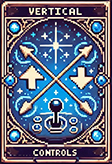
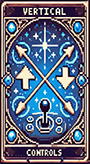
Selección de Cartas y ajuste

diff --git a/src/scenes/CardScene.js b/src/scenes/CardScene.js
@@ -9,20 +9,20 @@ export default class CardScene extends Phaser.Scene {
             stats: null,
             mapa: null
         }; // Guardar selección por tipo
-        this.shuffleEnabled = true; // Flag para activar/desactivar desorden
+        this.shuffleEnabled = false; // Flag para activar/desactivar desorden
     }
 
     preload() {
         this.load.image("cartaReverso", "assets/images/Cartas/CartaD1Esc.jpg"); // Imagen para cartas dadas vuelta
-        this.load.image("cartaControles1", "assets/images/Cartas/Horizonal.jpg");
-        this.load.image("cartaControles2", "assets/images/Cartas/cartaControles2.png");
-        this.load.image("cartaControles3", "assets/images/Cartas/cartaControles3.png");
-        this.load.image("cartaStats1", "assets/images/Cartas/cartaStats1.png");
-        this.load.image("cartaStats2", "assets/images/Cartas/cartaStats2.png");
-        this.load.image("cartaStats3", "assets/images/Cartas/cartaStats3.png");
-        this.load.image("cartaMapa1", "assets/images/Cartas/cartaMapa1.png");
-        this.load.image("cartaMapa2", "assets/images/Cartas/cartaMapa2.png");
-        this.load.image("cartaMapa3", "assets/images/Cartas/cartaMapa3.png");
+        this.load.image("cartaControles1", "assets/images/Cartas/HorizontalEsc.jpg");
+        this.load.image("cartaControles2", "assets/images/Cartas/VerticalEsc.jpg");
+        this.load.image("cartaControles3", "assets/images/Cartas/DeslizamientoEsc.jpg");
+        this.load.image("cartaStats1", "assets/images/Cartas/VelocidadEsc.jpg");
+        this.load.image("cartaStats2", "assets/images/Cartas/SaltoEsc.jpg");
+        this.load.image("cartaStats3", "assets/images/Cartas/VidaEsc.jpg");
+        this.load.image("cartaMapa1", "assets/images/Cartas/GravedadEsc.jpg");
+        this.load.image("cartaMapa2", "assets/images/Cartas/GlitchEsc.jpg");
+        this.load.image("cartaMapa3", "assets/images/Cartas/RelampagoEsc.jpg");
     }
 
     create() {
@@ -32,19 +32,19 @@ export default class CardScene extends Phaser.Scene {
         this.crearCartas("controles", 100, [
             new Carta("controles", "invertirIzquierdaDerecha", "Invierte los controles izquierda-derecha"),
             new Carta("controles", "invertirArribaAbajo", "Invierte los controles arriba-abajo"),
-            new Carta("controles", "deslizante", "Movimiento resbaladizo al detenerse")
+            new Carta("controles", "deslizante", "¡Cuidado! , ahora el suelo puede resbalar")
         ]);
 
         this.crearCartas("stats", 300, [
-            new Carta("stats", "velocidadExtra", "Incrementa la velocidad"),
-            new Carta("stats", "saltoExtra", "Incrementa el salto"),
+            new Carta("stats", "velocidadExtra", "Incrementa la velocidad de movimiento"),
+            new Carta("stats", "saltoExtra", "Incrementa el poder de salto"),
             new Carta("stats", "vidaExtra", "Gana una vida adicional")
         ]);
 
         this.crearCartas("mapa", 500, [
-            new Carta("mapa", "gravedadReducida", "Reduce la gravedad"),
-            new Carta("mapa", "lluviaChampiñones", "Lluvia de champiñones"),
-            new Carta("mapa", "relampagoPantalla", "Pantalla parpadeante")
+            new Carta("mapa", "gravedadReducida", "Reduce la gravedad cada 10 segundos durante 3 segundos"),
+            new Carta("mapa", "glitch", "Hay fallos en el juego de manera inesperada ¡ CUIDADO !"),
+            new Carta("mapa", "relampagoPantalla", "La pantalla se verá afectada por un efecto de relámpago")
         ]);
 
         // Botón de continuar
@@ -102,7 +102,7 @@ export default class CardScene extends Phaser.Scene {
             },
             mapa: {
                 gravedadReducida: "cartaMapa1",
-                lluviaChampiñones: "cartaMapa2",
+                glitch: "cartaMapa2",
                 relampagoPantalla: "cartaMapa3"
             }
         };
@@ -127,7 +127,7 @@ export default class CardScene extends Phaser.Scene {
 
         // Mostrar cartas seleccionadas con descripciones antes de iniciar el juego
         this.mostrarResumenCartas(cartasSeleccionadas, () => {
-            this.scene.start("GameScene", { cartasSeleccionadas });
+            this.scene.start("game", { cartasSeleccionadas });
         });
     }
 
